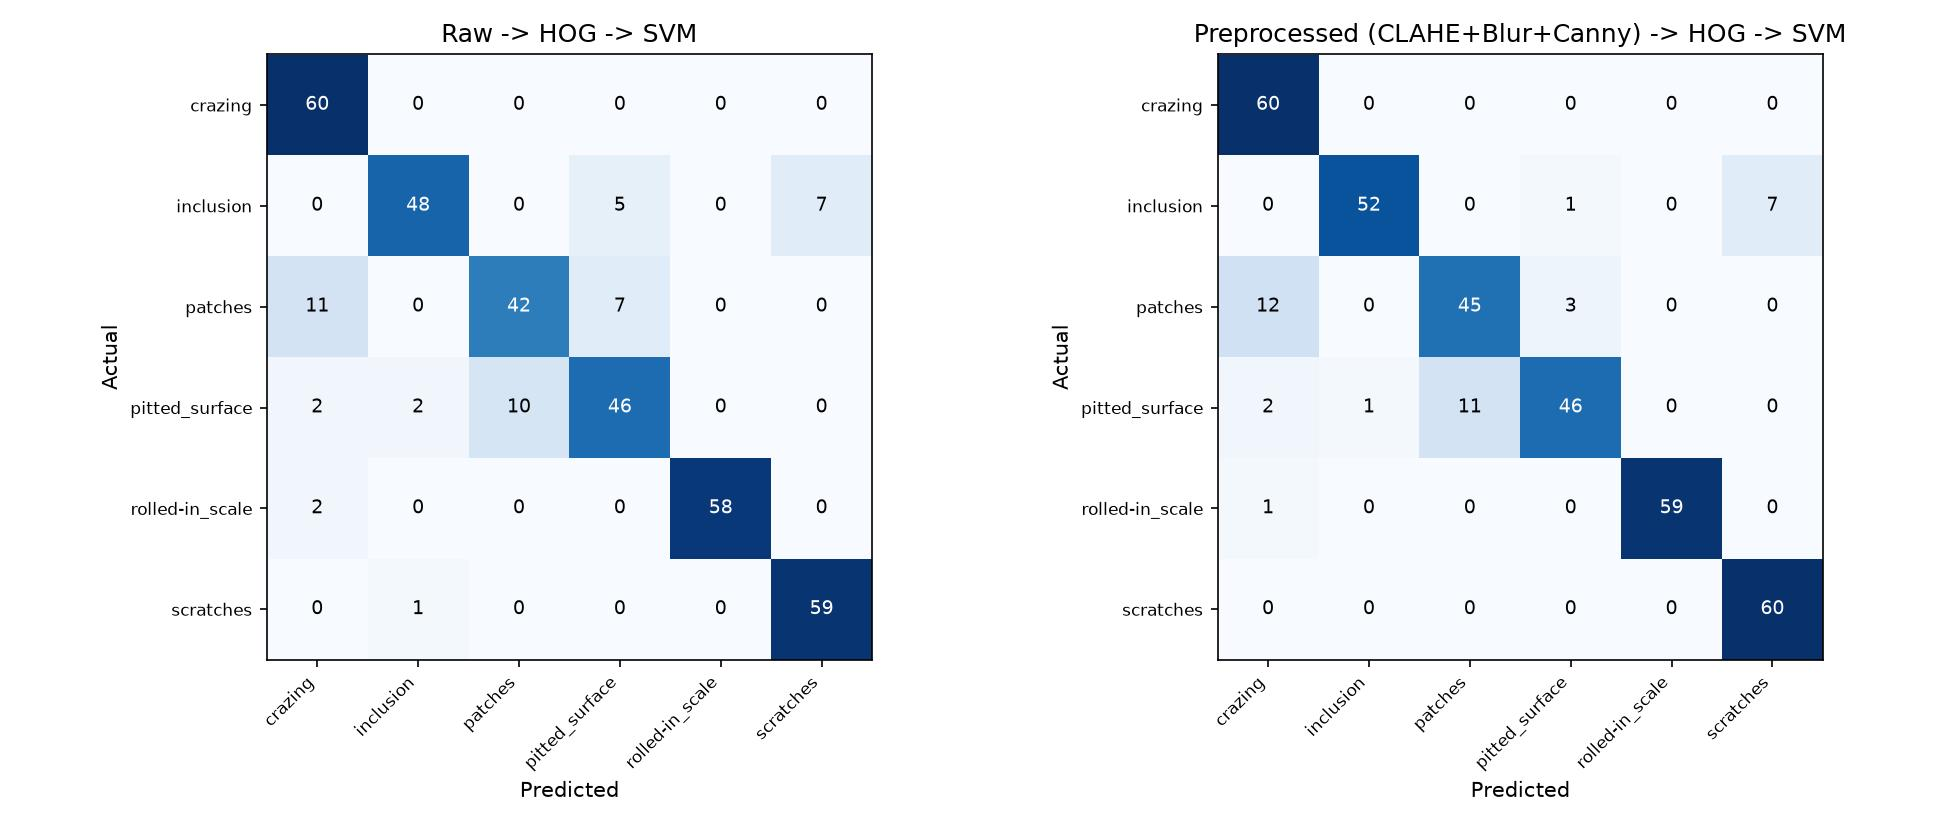
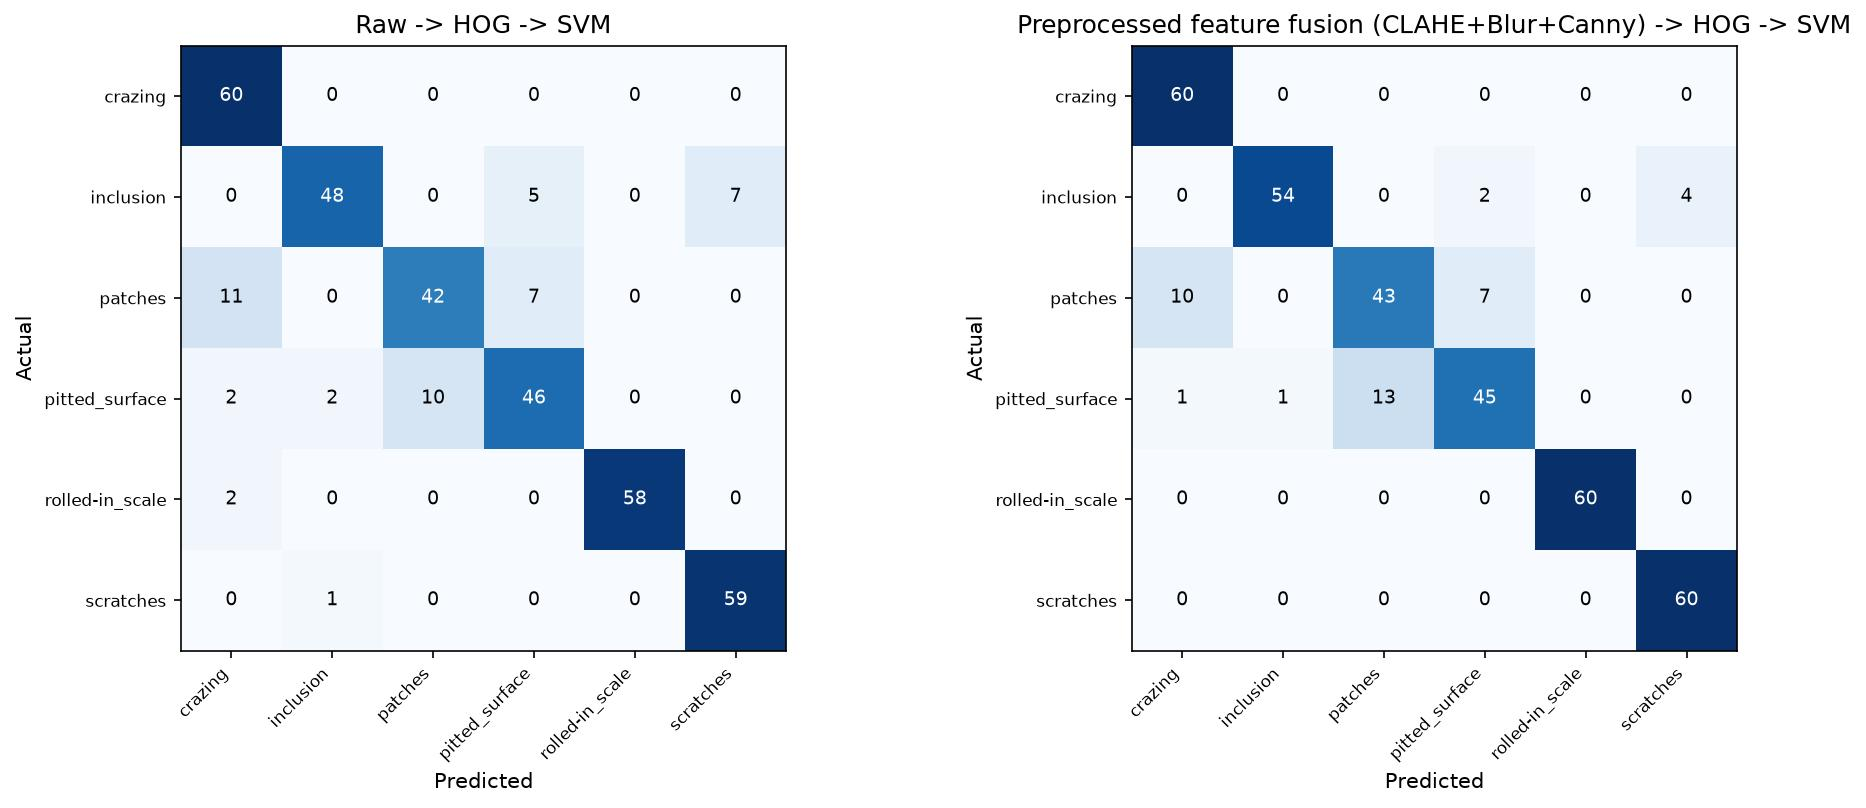
Adding evaluation plots for baseline experiments

diff --git a/src/generate_results_plots.py b/src/generate_results_plots.py
@@ -1,68 +1,252 @@
+"""
+Generates quantitative evaluation figures for the baseline classifier.
+
+Outputs:
+    - baseline_metric_comparison.jpg
+    - confusion_matrices.jpg
+"""
+
 import json
-import numpy as np
+import os
+
 import matplotlib.pyplot as plt
+import numpy as np
+
 
 CLASSES = [
-    "crazing", "inclusion", "patches",
-    "pitted_surface", "rolled-in_scale", "scratches",
+    "crazing",
+    "inclusion",
+    "patches",
+    "pitted_surface",
+    "rolled-in_scale",
+    "scratches",
 ]
 
-with open("../outputs/baseline_results.json") as f:
-    results = json.load(f)
 
-# --- Metric comparison bar chart ---
-metrics = ["accuracy", "precision_macro", "recall_macro", "f1_macro"]
-metric_labels = ["Accuracy", "Precision", "Recall", "F1-Score"]
+SRC_DIR = os.path.dirname(os.path.abspath(__file__))
+PROJECT_ROOT = os.path.dirname(SRC_DIR)
 
-raw = results[0]
-prep = results[1]
+RESULTS_PATH = os.path.join(
+    PROJECT_ROOT,
+    "outputs",
+    "baseline_results.json",
+)
 
-x = np.arange(len(metrics))
-width = 0.35
+PLOTS_DIR = os.path.join(
+    PROJECT_ROOT,
+    "outputs",
+    "plots",
+)
 
-fig, ax = plt.subplots(figsize=(8, 5))
-raw_vals = [raw[m] * 100 for m in metrics]
-prep_vals = [prep[m] * 100 for m in metrics]
 
-bars1 = ax.bar(x - width/2, raw_vals, width, label="Raw -> HOG -> SVM", color="#4C72B0")
-bars2 = ax.bar(x + width/2, prep_vals, width, label="Preprocessed (CLAHE+Blur+Canny) -> HOG -> SVM", color="#DD8452")
+def main():
+    os.makedirs(
+        PLOTS_DIR,
+        exist_ok=True,
+    )
 
-ax.set_ylabel("Score (%)")
-ax.set_title("Baseline Classifier: Raw vs. Preprocessed Input")
-ax.set_xticks(x)
-ax.set_xticklabels(metric_labels)
-ax.set_ylim(0, 100)
-ax.legend()
+    with open(
+        RESULTS_PATH,
+        "r",
+        encoding="utf-8",
+    ) as file:
+        results = json.load(file)
 
-for bars in [bars1, bars2]:
-    for b in bars:
-        h = b.get_height()
-        ax.annotate(f"{h:.1f}", (b.get_x() + b.get_width()/2, h),
-                    ha="center", va="bottom", fontsize=9)
+    raw = results[0]
+    prep = results[1]
 
-plt.tight_layout()
-plt.savefig("../outputs/plots/baseline_metric_comparison.jpg", dpi=150)
-print("Saved: ../outputs/plots/baseline_metric_comparison.jpg")
+    generate_metric_comparison(raw, prep)
+    generate_confusion_matrices(results)
 
-# --- Confusion matrices ---
-fig, axes = plt.subplots(1, 2, figsize=(13, 5.5))
-titles = ["Raw -> HOG -> SVM", "Preprocessed (CLAHE+Blur+Canny) -> HOG -> SVM"]
 
-for ax, res, title in zip(axes, results, titles):
-    cm = np.array(res["confusion_matrix"])
-    im = ax.imshow(cm, cmap="Blues")
-    ax.set_title(title)
-    ax.set_xticks(range(len(CLASSES)))
-    ax.set_yticks(range(len(CLASSES)))
-    ax.set_xticklabels(CLASSES, rotation=45, ha="right", fontsize=8)
-    ax.set_yticklabels(CLASSES, fontsize=8)
-    ax.set_xlabel("Predicted")
-    ax.set_ylabel("Actual")
-    for i in range(len(CLASSES)):
-        for j in range(len(CLASSES)):
-            ax.text(j, i, cm[i, j], ha="center", va="center",
-                     color="white" if cm[i, j] > cm.max()/2 else "black", fontsize=9)
+def generate_metric_comparison(raw, prep):
+    metrics = [
+        "accuracy",
+        "precision_macro",
+        "recall_macro",
+        "f1_macro",
+    ]
 
-plt.tight_layout()
-plt.savefig("../outputs/plots/confusion_matrices.jpg", dpi=150)
-print("Saved: ../outputs/plots/confusion_matrices.jpg")
+    metric_labels = [
+        "Accuracy",
+        "Precision",
+        "Recall",
+        "F1-Score",
+    ]
+
+    x = np.arange(len(metrics))
+    width = 0.35
+
+    raw_values = [
+        raw[metric] * 100
+        for metric in metrics
+    ]
+
+    prep_values = [
+        prep[metric] * 100
+        for metric in metrics
+    ]
+
+    fig, ax = plt.subplots(
+        figsize=(8, 5),
+    )
+
+    bars_raw = ax.bar(
+        x - width / 2,
+        raw_values,
+        width,
+        label="Raw -> HOG -> SVM",
+        color="#4C72B0",
+    )
+
+    bars_preprocessed = ax.bar(
+        x + width / 2,
+        prep_values,
+        width,
+        label=(
+            "Preprocessed feature fusion "
+            "(CLAHE+Blur+Canny) -> HOG -> SVM"
+        ),
+        color="#DD8452",
+    )
+
+    ax.set_ylabel("Score (%)")
+
+    ax.set_title(
+        "Baseline Classifier: Raw vs. Preprocessed Input"
+    )
+
+    ax.set_xticks(x)
+    ax.set_xticklabels(metric_labels)
+    ax.set_ylim(0, 100)
+    ax.legend()
+
+    for bars in [
+        bars_raw,
+        bars_preprocessed,
+    ]:
+        for bar in bars:
+            height = bar.get_height()
+
+            ax.annotate(
+                f"{height:.1f}",
+                (
+                    bar.get_x()
+                    + bar.get_width() / 2,
+                    height,
+                ),
+                ha="center",
+                va="bottom",
+                fontsize=9,
+            )
+
+    plt.tight_layout()
+
+    metric_plot_path = os.path.join(
+        PLOTS_DIR,
+        "baseline_metric_comparison.jpg",
+    )
+
+    plt.savefig(
+        metric_plot_path,
+        dpi=150,
+        bbox_inches="tight",
+    )
+
+    plt.close(fig)
+
+    print(f"Saved: {metric_plot_path}")
+
+
+def generate_confusion_matrices(results):
+    fig, axes = plt.subplots(
+        1,
+        2,
+        figsize=(13, 5.5),
+    )
+
+    titles = [
+        "Raw -> HOG -> SVM",
+        (
+            "Preprocessed feature fusion "
+            "(CLAHE+Blur+Canny) -> HOG -> SVM"
+        ),
+    ]
+
+    for ax, result, title in zip(
+        axes,
+        results,
+        titles,
+    ):
+        confusion = np.array(
+            result["confusion_matrix"]
+        )
+
+        ax.imshow(
+            confusion,
+            cmap="Blues",
+        )
+
+        ax.set_title(title)
+
+        ax.set_xticks(
+            range(len(CLASSES))
+        )
+
+        ax.set_yticks(
+            range(len(CLASSES))
+        )
+
+        ax.set_xticklabels(
+            CLASSES,
+            rotation=45,
+            ha="right",
+            fontsize=8,
+        )
+
+        ax.set_yticklabels(
+            CLASSES,
+            fontsize=8,
+        )
+
+        ax.set_xlabel("Predicted")
+        ax.set_ylabel("Actual")
+
+        threshold = confusion.max() / 2
+
+        for row in range(len(CLASSES)):
+            for column in range(len(CLASSES)):
+                ax.text(
+                    column,
+                    row,
+                    confusion[row, column],
+                    ha="center",
+                    va="center",
+                    color=(
+                        "white"
+                        if confusion[row, column] > threshold
+                        else "black"
+                    ),
+                    fontsize=9,
+                )
+
+    plt.tight_layout()
+
+    confusion_plot_path = os.path.join(
+        PLOTS_DIR,
+        "confusion_matrices.jpg",
+    )
+
+    plt.savefig(
+        confusion_plot_path,
+        dpi=150,
+        bbox_inches="tight",
+    )
+
+    plt.close(fig)
+
+    print(f"Saved: {confusion_plot_path}")
+
+
+if __name__ == "__main__":
+    main()